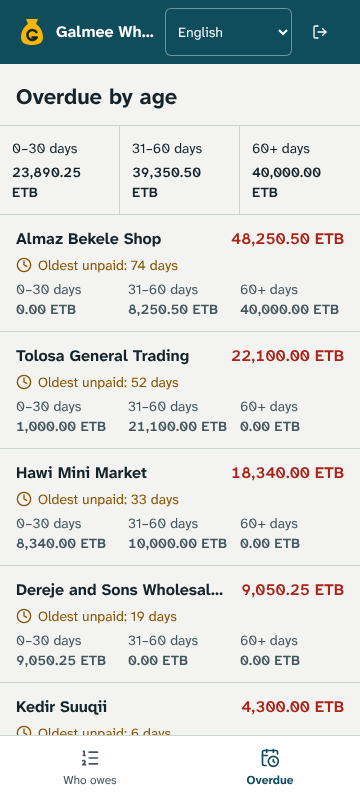
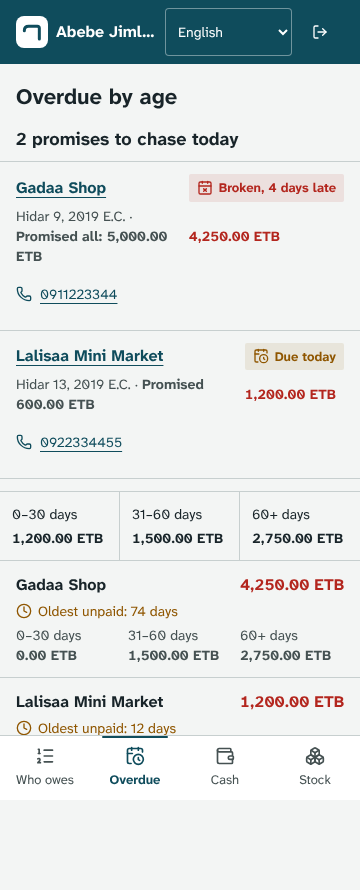
Overdue screen: broken and due-today promises on top, with a call link for each shop

diff --git a/src/app/[locale]/(app)/overdue/page.tsx b/src/app/[locale]/(app)/overdue/page.tsx
@@ -1,16 +1,25 @@
 import { getTranslations, setRequestLocale } from "next-intl/server";
-import { Clock } from "lucide-react";
+import { CalendarClock, CalendarX, Clock, Phone } from "lucide-react";
+import { StatusBadge } from "@/components/galmee/status-badge";
 import { Link } from "@/i18n/navigation";
 import type { AppLocale } from "@/i18n/routing";
+import { formatEthiopianDate } from "@/lib/ethiopian-calendar";
 import { formatBirr } from "@/lib/money";
 import { getAgeingTotals, listAgeing } from "@/server/dal/customers";
+import { getPromisesToChase } from "@/server/dal/promises";
 
 export default async function OverduePage({ params }: PageProps<"/[locale]/overdue">) {
   const { locale: rawLocale } = await params;
   setRequestLocale(rawLocale);
   const locale = rawLocale as AppLocale;
 
-  const [t, rows, totals] = await Promise.all([getTranslations("Overdue"), listAgeing(), getAgeingTotals()]);
+  const [t, tp, rows, totals, chase] = await Promise.all([
+    getTranslations("Overdue"),
+    getTranslations("Promises"),
+    listAgeing(),
+    getAgeingTotals(),
+    getPromisesToChase(),
+  ]);
 
   const buckets = [
     { key: "d0", label: t("bucket0"), total: totals.days0To30 },
@@ -23,6 +32,51 @@ export default async function OverduePage({ params }: PageProps<"/[locale]/overd
       <div className="px-4 pt-4 md:px-0 md:pt-0">
         <h1 className="text-[1.375rem] font-bold">{t("title")}</h1>
       </div>
+
+      {chase.length > 0 ? (
+        <section aria-labelledby="chase-heading" className="mt-3">
+          <h2 id="chase-heading" className="px-4 text-lg font-bold md:px-0">
+            {tp("chaseHeading", { count: chase.length })}
+          </h2>
+          <ul className="mt-2 divide-y divide-border border-y">
+            {chase.map((p) => (
+              <li key={p.id} className="grid grid-cols-[minmax(0,1fr)_auto] items-center gap-x-3 gap-y-1 px-4 py-3 md:px-2">
+                <Link href={`/customers/${p.customerId}`} className="truncate font-bold text-tarp underline underline-offset-4">
+                  {p.name}
+                </Link>
+                {p.state === "broken" ? (
+                  <StatusBadge tone="urgent" icon={CalendarX}>
+                    {tp("state_broken", { days: p.daysLate })}
+                  </StatusBadge>
+                ) : (
+                  <StatusBadge tone="warn" icon={CalendarClock}>
+                    {tp("state_due_today")}
+                  </StatusBadge>
+                )}
+                <span className="text-sm text-muted-foreground">
+                  <time dateTime={p.promisedOn}>{formatEthiopianDate(p.promisedOn, locale)}</time>
+                  {" · "}
+                  <span className="money">
+                    {p.amount !== null
+                      ? tp("promisedAmount", { amount: formatBirr(p.amount, locale) })
+                      : tp("promisedAll", { amount: formatBirr(p.owedAtPromise, locale) })}
+                  </span>
+                </span>
+                <span className="money text-sm whitespace-nowrap text-owed">{formatBirr(p.owedNow, locale)}</span>
+                {p.phone ? (
+                  <a
+                    href={`tel:${p.phone}`}
+                    className="col-span-2 inline-flex min-h-12 items-center gap-2 justify-self-start text-sm text-tarp underline underline-offset-4"
+                  >
+                    <Phone className="size-4" aria-hidden />
+                    <span dir="ltr">{p.phone}</span>
+                  </a>
+                ) : null}
+              </li>
+            ))}
+          </ul>
+        </section>
+      ) : null}
 
       <dl className="mt-3 grid grid-cols-3 divide-x divide-border border-y">
         {buckets.map((b) => (

diff --git a/src/server/dal/promises.ts b/src/server/dal/promises.ts
@@ -98,3 +98,18 @@ export async function logPromise(input: {
   if (message.includes("nothing_owed")) return { ok: false, error: "errorNothingOwed" };
   return { ok: false, error: "errorSave" };
 }
+
+/** Open promises that need a call today: broken ones (latest date first) then the ones due today. */
+export async function getPromisesToChase(limit = 50): Promise<PromiseDTO[]> {
+  const supabase = await createClient();
+  const { data, error } = await supabase
+    .from("wh_promise_status")
+    .select(COLUMNS)
+    .eq("status", "open")
+    .in("state", ["broken", "due_today"])
+    .order("promised_on", { ascending: true })
+    .limit(limit);
+  if (error) throw new Error("promises_load_failed");
+  const rows = toDTO(data);
+  return [...rows.filter((r) => r.state === "broken"), ...rows.filter((r) => r.state === "due_today")];
+}

diff --git a/ROADMAP.md b/ROADMAP.md
@@ -18,7 +18,7 @@
 - [ ] Staff invite + per-staff collections view
 - [ ] Excel import customers + opening balances (export everything: done)
 - [x] Promise to pay: log a promised day (and amount) on a shop's debt; kept / broken worked out from real repayments
-- [ ] Broken and due-today promises as their own list on the Overdue screen
+- [x] Broken and due-today promises as their own list on the Overdue screen
 
 ## M0: Foundation (shared pattern for all Galmee products)
 
